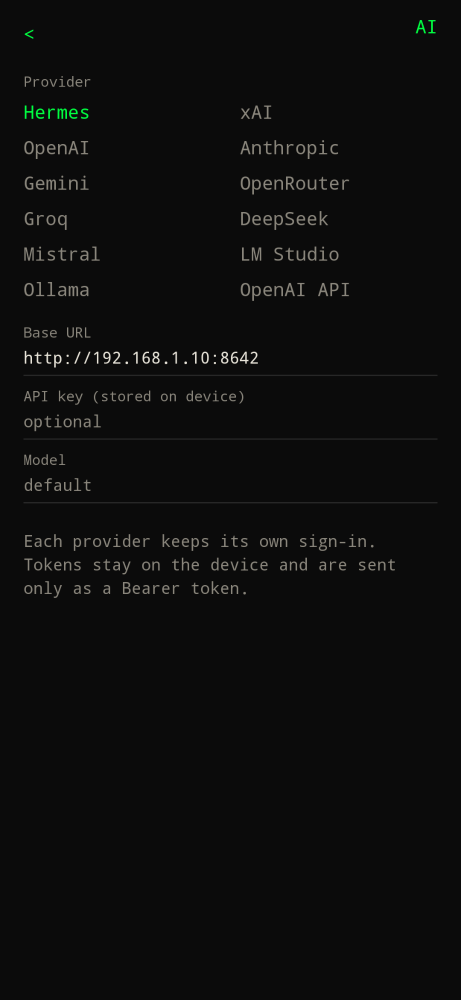
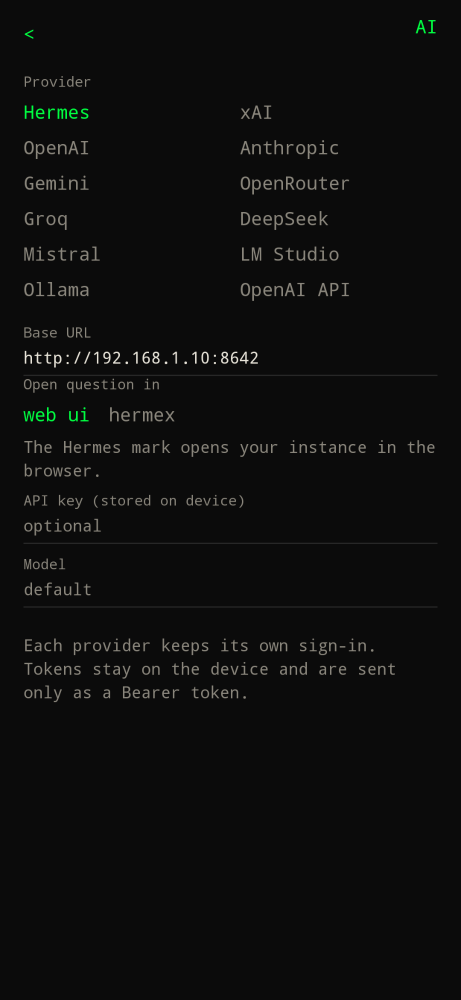
feat: open Hermes questions in Hermex like Grok (#78)
Hermex has no ?q= export. Share the prompt into the app
(com.hermex.android), then hermex://new-chat / hermes-agent://new-chat.

diff --git a/app/src/main/java/xyz/cdr/builderlauncher/ai/ProviderHandoff.kt b/app/src/main/java/xyz/cdr/builderlauncher/ai/ProviderHandoff.kt
@@ -9,6 +9,13 @@ import java.net.URLEncoder
 import java.nio.charset.StandardCharsets
 
 object ProviderHandoff {
+    const val HERMEX_PACKAGE = "com.hermex.android"
+
+    val HERMEX_DEEP_LINKS = listOf(
+        "hermex://new-chat",
+        "hermes-agent://new-chat",
+    )
+
     fun prompt(draft: String, lastUserMessage: String?): String {
         val fromBar = Chats.questionFromInput(draft)
         if (fromBar.isNotBlank()) return fromBar
@@ -32,11 +39,12 @@ object ProviderHandoff {
 
     fun contentDescription(provider: LlmProvider): String = "open ${label(provider)}"
 
-    fun appPackage(provider: LlmProvider): String? = when (provider) {
+    fun appPackage(provider: LlmProvider, openHermex: Boolean = false): String? = when (provider) {
         LlmProvider.XAI -> "ai.x.grok"
         LlmProvider.OPENAI -> "com.openai.chatgpt"
         LlmProvider.ANTHROPIC -> "com.anthropic.claude"
         LlmProvider.GEMINI -> "com.google.android.apps.bard"
+        LlmProvider.HERMES -> if (openHermex) HERMEX_PACKAGE else null
         else -> null
     }
 
@@ -61,28 +69,39 @@ object ProviderHandoff {
         provider: LlmProvider,
         prompt: String,
         hermesBaseUrl: String?,
+        openHermex: Boolean = false,
     ): Boolean {
-        val pkg = appPackage(provider)
-        if (pkg != null && prompt.isNotBlank()) {
-            val share = Intent(Intent.ACTION_SEND)
-                .setType("text/plain")
-                .putExtra(Intent.EXTRA_TEXT, prompt)
-                .setPackage(pkg)
-                .addFlags(Intent.FLAG_ACTIVITY_NEW_TASK)
-            if (share.resolveActivity(context.packageManager) != null) {
-                context.startActivity(share)
-                return true
+        val pkg = appPackage(provider, openHermex)
+        if (pkg != null && prompt.isNotBlank() && shareTo(context, pkg, prompt)) {
+            return true
+        }
+        if (provider == LlmProvider.HERMES && openHermex) {
+            for (link in HERMEX_DEEP_LINKS) {
+                if (view(context, link)) return true
             }
         }
         val url = webUrl(provider, prompt, hermesBaseUrl) ?: return false
-        return try {
-            context.startActivity(
-                Intent(Intent.ACTION_VIEW, Uri.parse(url)).addFlags(Intent.FLAG_ACTIVITY_NEW_TASK),
-            )
-            true
-        } catch (_: Exception) {
-            false
-        }
+        return view(context, url)
+    }
+
+    private fun shareTo(context: Context, pkg: String, prompt: String): Boolean {
+        val share = Intent(Intent.ACTION_SEND)
+            .setType("text/plain")
+            .putExtra(Intent.EXTRA_TEXT, prompt)
+            .setPackage(pkg)
+            .addFlags(Intent.FLAG_ACTIVITY_NEW_TASK)
+        if (share.resolveActivity(context.packageManager) == null) return false
+        context.startActivity(share)
+        return true
+    }
+
+    private fun view(context: Context, url: String): Boolean = try {
+        context.startActivity(
+            Intent(Intent.ACTION_VIEW, Uri.parse(url)).addFlags(Intent.FLAG_ACTIVITY_NEW_TASK),
+        )
+        true
+    } catch (_: Exception) {
+        false
     }
 
     private fun site(base: String, prompt: String): String {

diff --git a/app/src/main/java/xyz/cdr/builderlauncher/ui/BuilderRoot.kt b/app/src/main/java/xyz/cdr/builderlauncher/ui/BuilderRoot.kt
@@ -602,7 +602,13 @@ fun BuilderRoot(
             ctx.getSystemService(ClipboardManager::class.java)
                 ?.setPrimaryClip(ClipData.newPlainText("prompt", text))
         }
-        val opened = ProviderHandoff.open(ctx, settings.provider, text, settings.hermesBaseUrl)
+        val opened = ProviderHandoff.open(
+            ctx,
+            settings.provider,
+            text,
+            settings.hermesBaseUrl,
+            openHermex = settings.provider == LlmProvider.HERMES && settings.hermesOpenInHermex,
+        )
         if (!opened) {
             val name = ProviderHandoff.label(settings.provider)
             Toast.makeText(
@@ -3046,7 +3052,37 @@ private fun AiProvidersPage(
                 baseUrl = it
                 repo.update { s -> s.copy(hermesBaseUrl = it) }
             }
-        } else {
+        }
+        if (settings.provider == LlmProvider.HERMES) {
+            Text("Open question in", color = Dim, style = MaterialTheme.typography.labelSmall)
+            Row(horizontalArrangement = Arrangement.spacedBy(16.dp), modifier = Modifier.padding(vertical = 8.dp)) {
+                Text(
+                    "web ui",
+                    color = if (!settings.hermesOpenInHermex) Accent else Dim,
+                    modifier = Modifier.clickable {
+                        repo.update { it.copy(hermesOpenInHermex = false) }
+                    },
+                )
+                Text(
+                    "hermex",
+                    color = if (settings.hermesOpenInHermex) Accent else Dim,
+                    modifier = Modifier.clickable {
+                        repo.update { it.copy(hermesOpenInHermex = true) }
+                    },
+                )
+            }
+            Text(
+                if (settings.hermesOpenInHermex) {
+                    "The Hermes mark shares the question into Hermex, like Grok. If Hermex is not installed it opens your Hermes URL."
+                } else {
+                    "The Hermes mark opens your instance in the browser."
+                },
+                color = Dim,
+                style = MaterialTheme.typography.bodyMedium,
+            )
+            Spacer(Modifier.height(8.dp))
+        }
+        if (!platform.needsBaseUrl) {
             Text(
                 "${platform.apiBase} — sign in or paste an API key. Used only for ? questions.",
                 color = Dim,

diff --git a/app/src/main/java/xyz/cdr/builderlauncher/data/SettingsRepository.kt b/app/src/main/java/xyz/cdr/builderlauncher/data/SettingsRepository.kt
@@ -20,6 +20,7 @@ enum class LlmProvider {
 data class BuilderSettings(
     val provider: LlmProvider = LlmProvider.HERMES,
     val hermesBaseUrl: String = "",
+    val hermesOpenInHermex: Boolean = false,
     val apiKey: String = "",
     val model: String = "",
     val keyboardMode: KeyboardMode = KeyboardMode.AUTO,
@@ -142,6 +143,7 @@ class SettingsRepository(context: Context) {
         return BuilderSettings(
             provider = provider,
             hermesBaseUrl = prefs.getString(KEY_HERMES, "") ?: "",
+            hermesOpenInHermex = prefs.getBoolean(KEY_HERMES_HERMEX, false),
             apiKey = prefs.getString(KEY_API, "") ?: "",
             model = prefs.getString(KEY_MODEL, "") ?: "",
             keyboardMode = kb,
@@ -177,6 +179,7 @@ class SettingsRepository(context: Context) {
         prefs.edit()
             .putString(KEY_PROVIDER, next.provider.name)
             .putString(KEY_HERMES, next.hermesBaseUrl)
+            .putBoolean(KEY_HERMES_HERMEX, next.hermesOpenInHermex)
             .putString(KEY_API, next.apiKey)
             .putString(KEY_MODEL, next.model)
             .putString(KEY_KB, next.keyboardMode.name)
@@ -202,6 +205,7 @@ class SettingsRepository(context: Context) {
         private const val PREFS = "builder.secure"
         private const val KEY_PROVIDER = "provider"
         private const val KEY_HERMES = "hermes_base"
+        private const val KEY_HERMES_HERMEX = "hermes_open_hermex"
         private const val KEY_API = "api_key"
         private const val KEY_MODEL = "model"
         private const val KEY_KB = "keyboard"

diff --git a/app/src/main/java/xyz/cdr/builderlauncher/ui/LauncherChrome.kt b/app/src/main/java/xyz/cdr/builderlauncher/ui/LauncherChrome.kt
@@ -1040,6 +1040,22 @@ fun AiProvidersChrome(
         if (platform.needsBaseUrl) {
             Field("Base URL", settings.hermesBaseUrl, platform.defaultLocalBase ?: "http://192.168.1.10:8642")
         }
+        if (settings.provider == LlmProvider.HERMES) {
+            Text("Open question in", color = Dim, style = MaterialTheme.typography.labelSmall)
+            Row(horizontalArrangement = Arrangement.spacedBy(16.dp), modifier = Modifier.padding(vertical = 8.dp)) {
+                Text("web ui", color = if (!settings.hermesOpenInHermex) Accent else Dim)
+                Text("hermex", color = if (settings.hermesOpenInHermex) Accent else Dim)
+            }
+            Text(
+                if (settings.hermesOpenInHermex) {
+                    "The Hermes mark shares the question into Hermex, like Grok. If Hermex is not installed it opens your Hermes URL."
+                } else {
+                    "The Hermes mark opens your instance in the browser."
+                },
+                color = Dim,
+                style = MaterialTheme.typography.bodyMedium,
+            )
+        }
         Field("API key (stored on device)", "", if (platform.keyOptional) "optional" else "optional if signed in")
         Field("Model", settings.model, platform.defaultModel)
         Spacer(Modifier.height(24.dp))

diff --git a/app/src/test/java/xyz/cdr/builderlauncher/data/ProviderAccountsTest.kt b/app/src/test/java/xyz/cdr/builderlauncher/data/ProviderAccountsTest.kt
@@ -7,7 +7,11 @@ import org.junit.Test
 class ProviderAccountsTest {
     @Test
     fun rememberKeepsEachProviderWhenSwitching() {
-        val hermes = BuilderSettings(provider = LlmProvider.HERMES, hermesBaseUrl = "http://192.168.1.10:8642")
+        val hermes = BuilderSettings(
+            provider = LlmProvider.HERMES,
+            hermesBaseUrl = "http://192.168.1.10:8642",
+            hermesOpenInHermex = true,
+        )
         val grok = hermes.copy(
             provider = LlmProvider.XAI,
             apiKey = "sk-x",
@@ -23,6 +27,7 @@ class ProviderAccountsTest {
         val back = ProviderAccounts.view(stored, grok, LlmProvider.HERMES)
         assertEquals(LlmProvider.HERMES, back.provider)
         assertEquals("http://192.168.1.10:8642", back.hermesBaseUrl)
+        assertTrue(back.hermesOpenInHermex)
         val xai = ProviderAccounts.view(stored, back, LlmProvider.XAI)
         assertEquals("sk-x", xai.apiKey)
         assertEquals("tok", xai.oauthAccess)

diff --git a/app/src/main/java/xyz/cdr/builderlauncher/data/ProviderAccounts.kt b/app/src/main/java/xyz/cdr/builderlauncher/data/ProviderAccounts.kt
@@ -13,6 +13,7 @@ data class ProviderAccount(
     val oauthAccount: String = "",
     val model: String = "",
     val baseUrl: String = "",
+    val openInHermex: Boolean = false,
 ) {
     fun apply(base: BuilderSettings, provider: LlmProvider): BuilderSettings = base.copy(
         provider = provider,
@@ -23,6 +24,7 @@ data class ProviderAccount(
         oauthAccount = oauthAccount,
         model = model,
         hermesBaseUrl = baseUrl,
+        hermesOpenInHermex = if (provider == LlmProvider.HERMES) openInHermex else base.hermesOpenInHermex,
     )
 
     companion object {
@@ -34,6 +36,7 @@ data class ProviderAccount(
             oauthAccount = settings.oauthAccount,
             model = settings.model,
             baseUrl = settings.hermesBaseUrl,
+            openInHermex = settings.hermesOpenInHermex,
         )
     }
 }

diff --git a/app/src/test/java/xyz/cdr/builderlauncher/ai/ProviderHandoffTest.kt b/app/src/test/java/xyz/cdr/builderlauncher/ai/ProviderHandoffTest.kt
@@ -61,6 +61,12 @@ class ProviderHandoffTest {
         )
         assertNull(ProviderHandoff.webUrl(LlmProvider.HERMES, "secret", "  "))
         assertNull(ProviderHandoff.appPackage(LlmProvider.HERMES))
+        assertNull(ProviderHandoff.appPackage(LlmProvider.HERMES, openHermex = false))
+        assertEquals(ProviderHandoff.HERMEX_PACKAGE, ProviderHandoff.appPackage(LlmProvider.HERMES, openHermex = true))
+        assertEquals(
+            listOf("hermex://new-chat", "hermes-agent://new-chat"),
+            ProviderHandoff.HERMEX_DEEP_LINKS,
+        )
     }
 
     @Test

diff --git a/README.md b/README.md
@@ -89,7 +89,7 @@ Home always shows a centered analog clock (digital time and date below; settings
 
 Settings (`settings` or `/settings`) → **… AI providers >**:
 
-- **Hermes** — Base URL of your instance (OpenAI-compatible `/v1/chat/completions`). Example: `http://192.168.1.10:8642`. API key optional if the instance does not require one. Cleartext LAN URLs are allowed so a home box works.
+- **Hermes** — Base URL of your instance (OpenAI-compatible `/v1/chat/completions`). Example: `http://192.168.1.10:8642`. API key optional if the instance does not require one. Cleartext LAN URLs are allowed so a home box works. **Open question in** on that screen: **web ui** opens the URL in the browser; **hermex** shares the question into Hermex like Grok (`com.hermex.android`, then `hermex://new-chat` / `hermes-agent://new-chat`).
 - **xAI** — Sign in with SuperGrok / X Premium+ (device-code OAuth at `auth.x.ai`) or paste an API key. Default model `grok-4.6`. Hits `https://api.x.ai/v1`.
 - **OpenAI** — Paste an API key. Default model `gpt-4o`. Hits `https://api.openai.com/v1`.
 - **Anthropic** — Paste an API key. Default model `claude-sonnet-4-5`. Hits `https://api.anthropic.com`.

diff --git a/website/src/content/docs/use/ai.md b/website/src/content/docs/use/ai.md
@@ -14,7 +14,7 @@ Nothing is sent anywhere until you submit a question. There is no analytics.
 
 ![Full-screen AI chat with a markdown table answer](../../../assets/screenshots/chat.png)
 
-`<` top left returns home. Top right: the provider mark (Grok, ChatGPT, Claude, or Hermes) copies the current prompt and opens that app pre-filled so you can send it there. Long-press the mark for a menu of provider names with logos on the right, aligned under the mark; tap a row to switch. History opens past conversations.
+`<` top left returns home. Top right: the provider mark (Grok, ChatGPT, Claude, or Hermes) copies the current prompt and opens that app pre-filled so you can send it there. For Hermes, settings **Open question in** picks the browser (default) or Hermex share, matching Grok. Long-press the mark for a menu of provider names with logos on the right, aligned under the mark; tap a row to switch. History opens past conversations.
 
 ![Long-press the provider mark to switch](../../../assets/screenshots/chat-provider-menu.png)
 

diff --git a/website/src/content/docs/configure/ai-providers.md b/website/src/content/docs/configure/ai-providers.md
@@ -13,6 +13,11 @@ Each account stays on the device when you switch. If Hermes is selected and the 
 
 Base URL of your instance (OpenAI-compatible `/v1/chat/completions`). Example: `http://192.168.1.10:8642`. API key optional if the instance does not require one. Cleartext LAN URLs are allowed so a home box works.
 
+**Open question in** chooses where the Hermes mark on `?` chat sends the current prompt:
+
+- **web ui** (default) — opens your Hermes URL in the browser.
+- **hermex** — shares the question into the Hermex app the same way Grok gets `ACTION_SEND`. Hermex does not take a `?q=` deep link; `hermex://new-chat` and `hermes-agent://new-chat` only open a blank composer. If Hermex is not installed, the mark falls back to your Hermes URL.
+
 ## xAI
 
 Sign in with SuperGrok / X Premium+ (device-code OAuth at `auth.x.ai`) or paste an API key.
